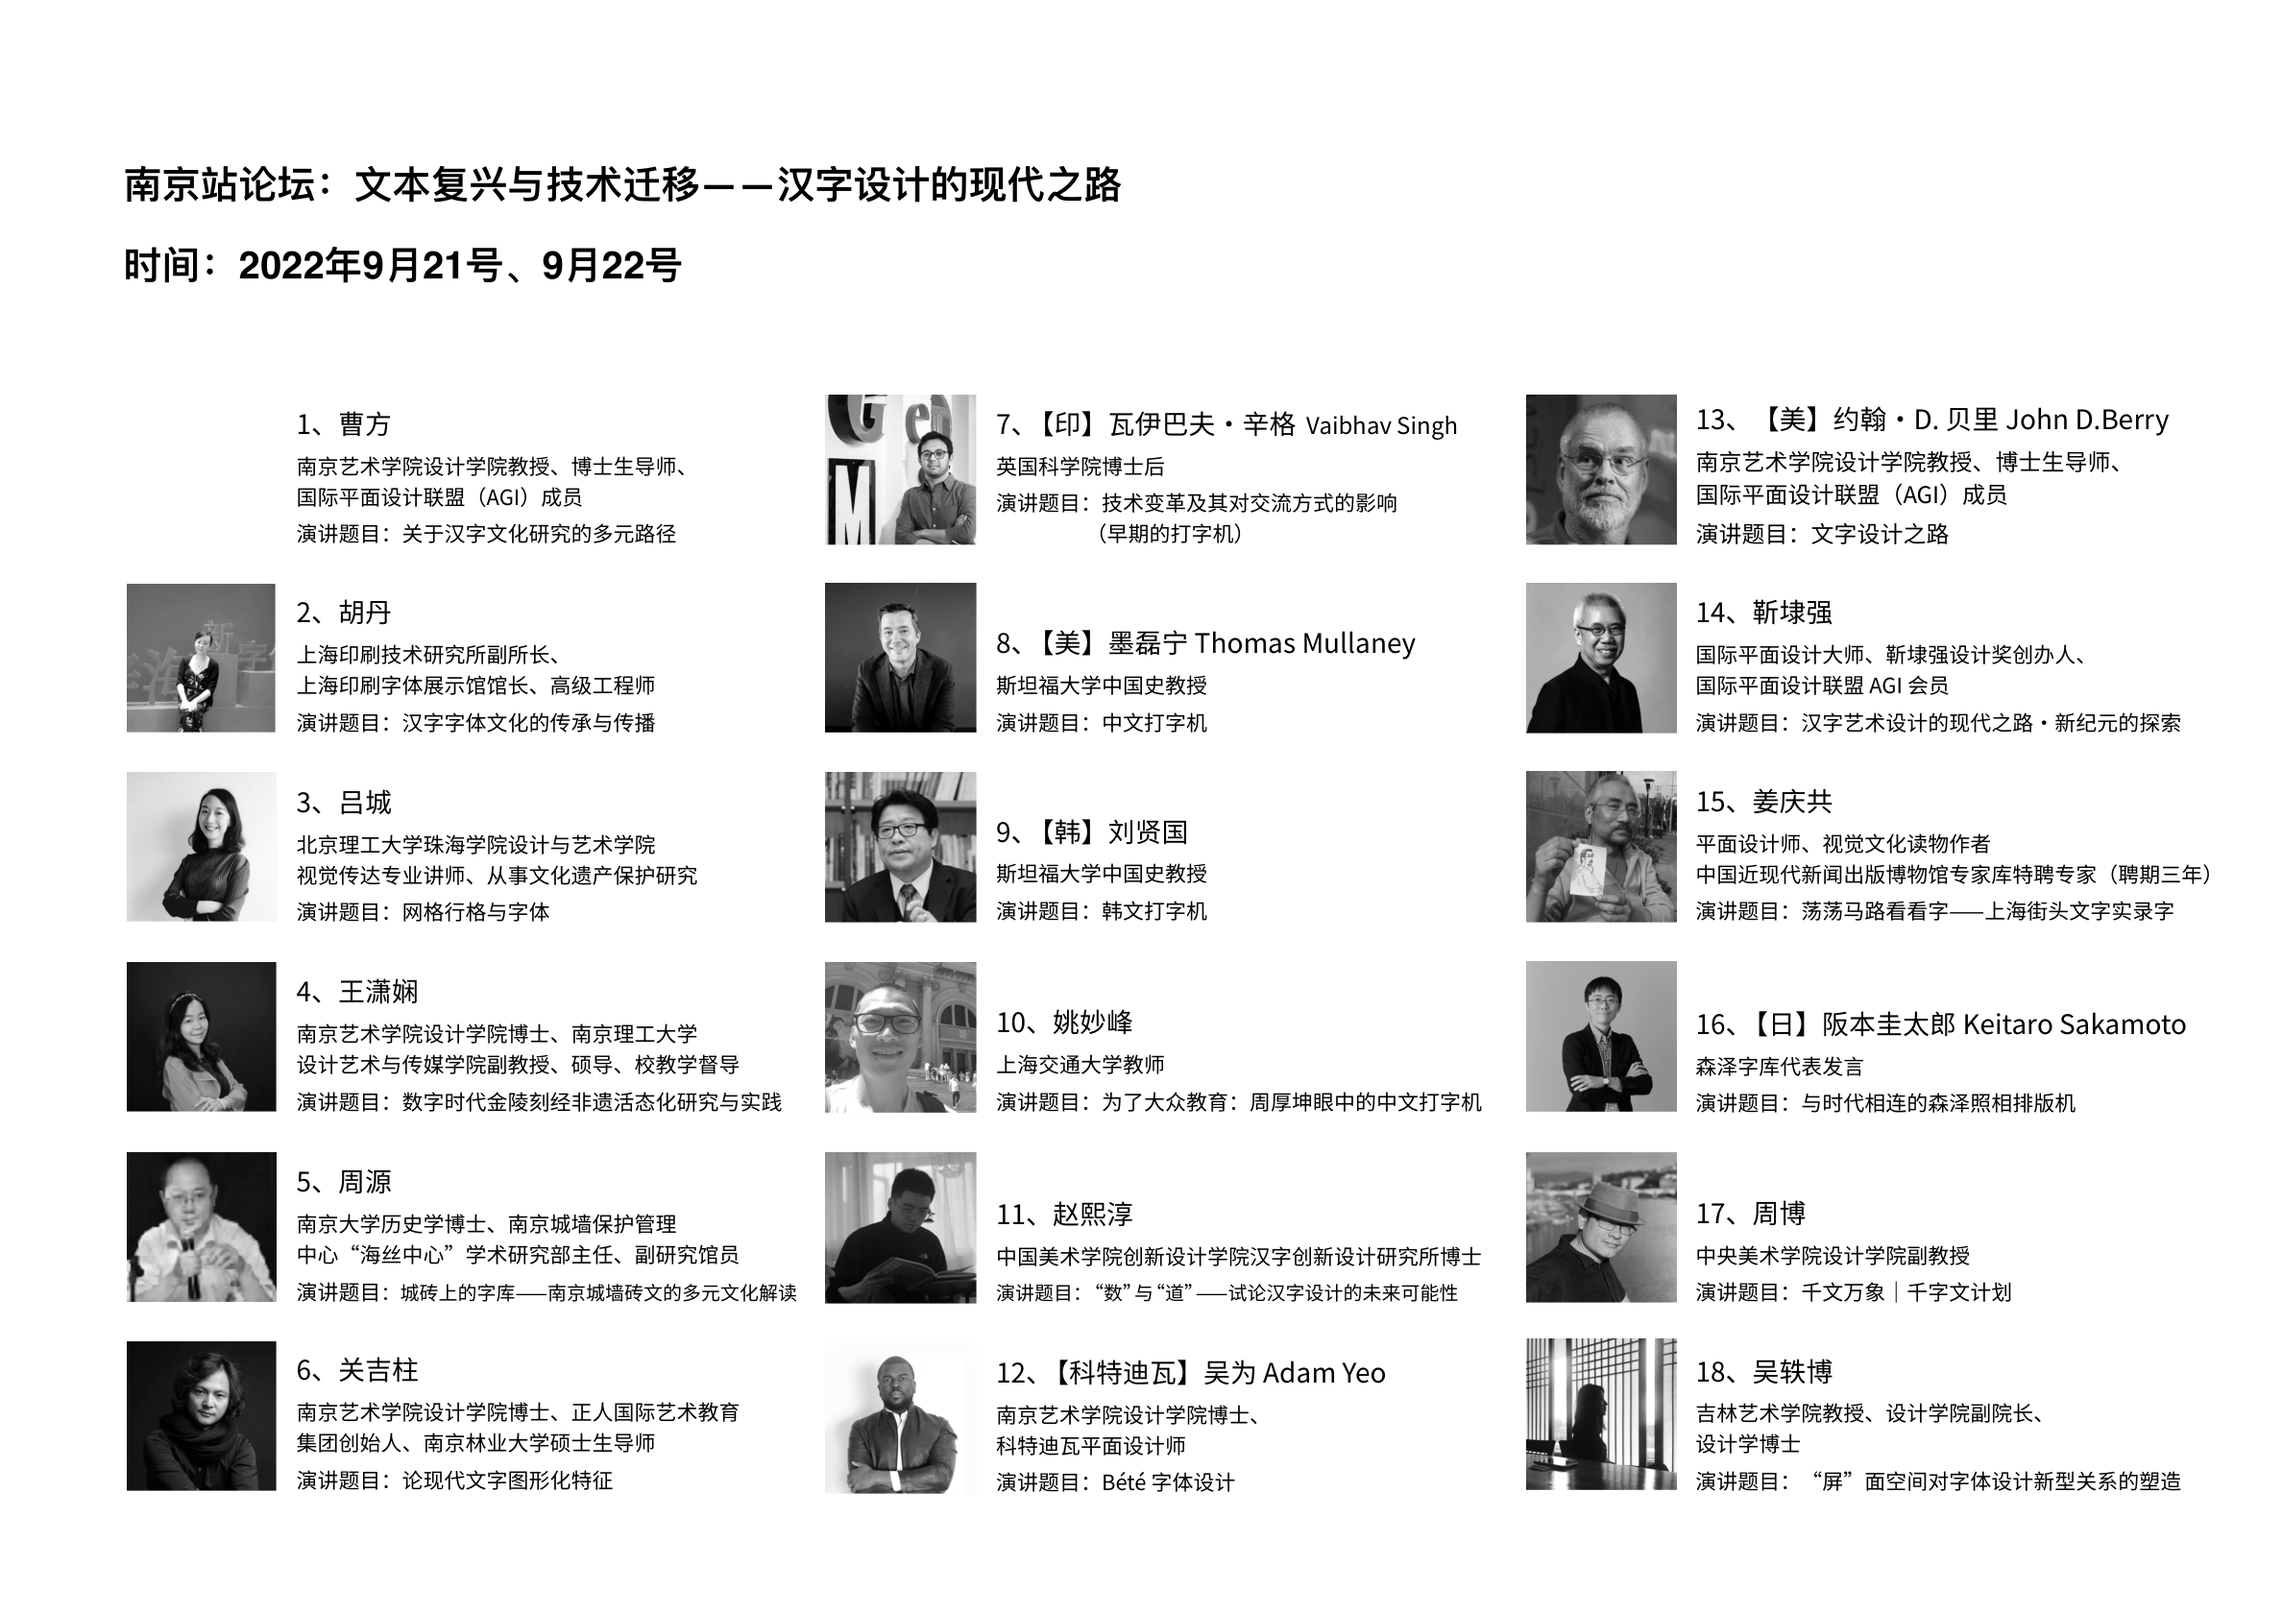
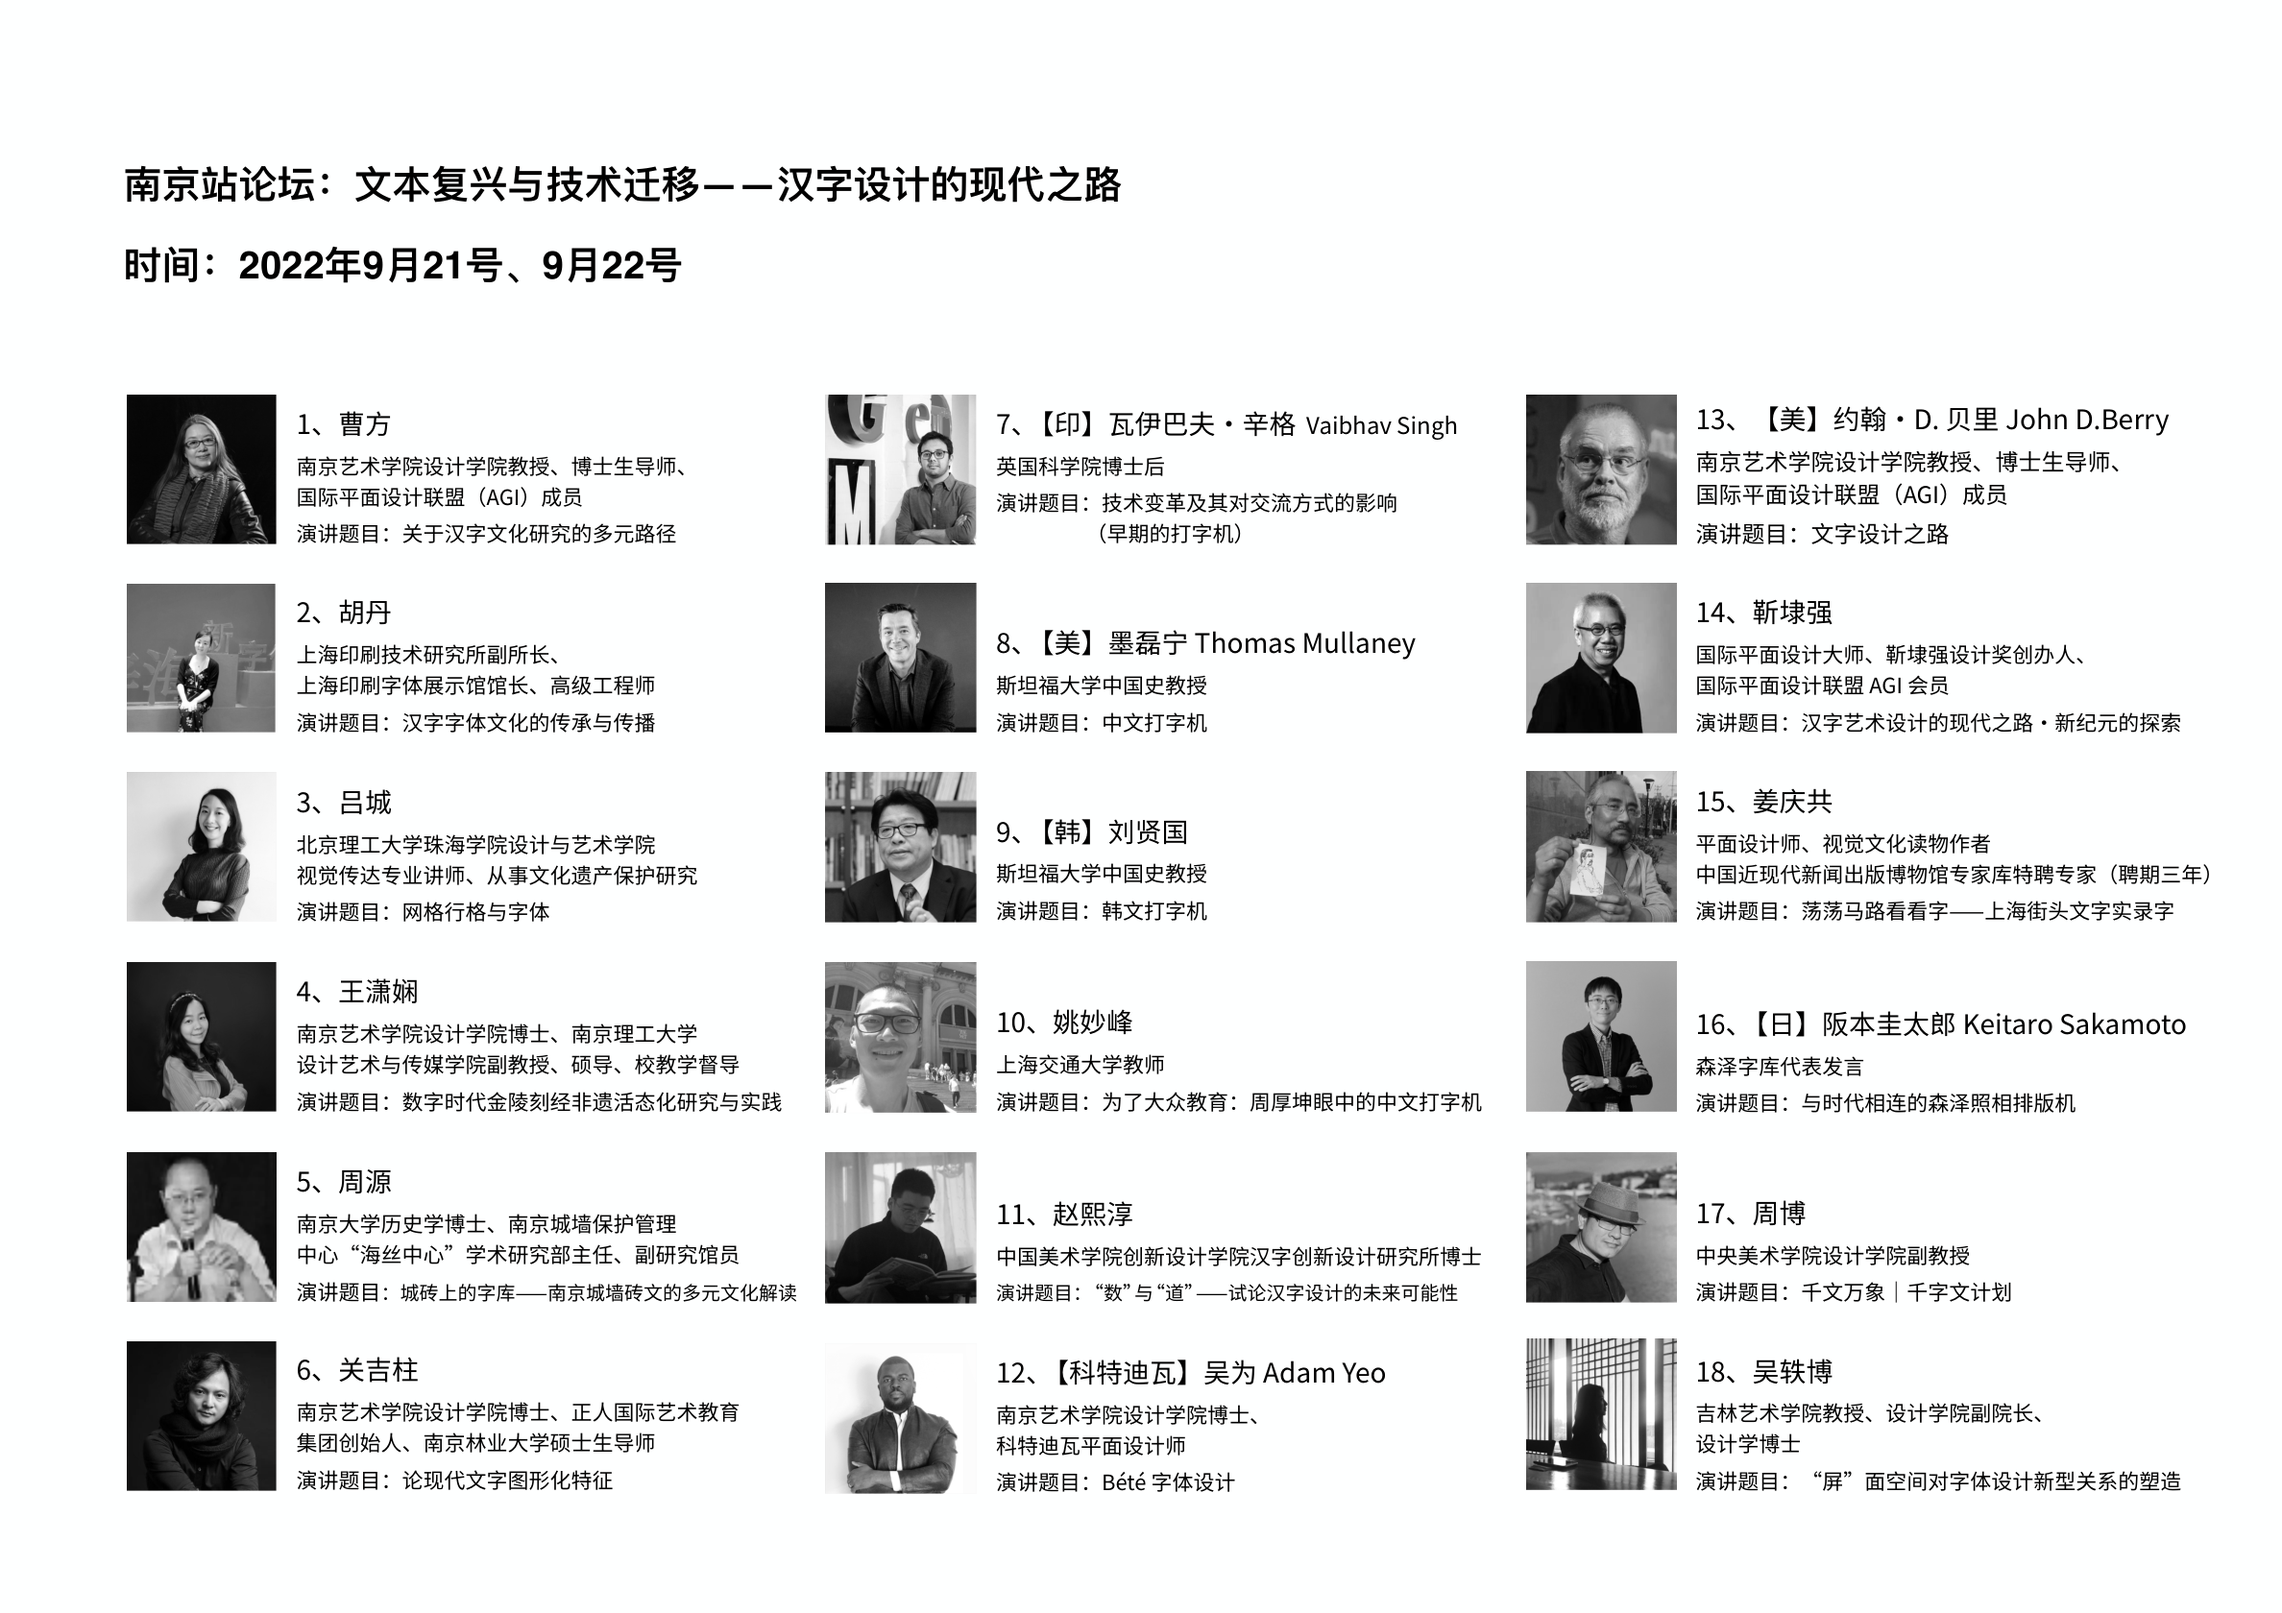
Replace Nanjing forum poster and pin station labels to top-left
Swaps in the updated Nanjing guest-lineup poster. Wraps each forum
card's eyebrow/heading in a .station-preview-label so it no longer
shares grid row tracks with the tall poster image — previously the
label's rows stretched to help fill the image's height, pushing the
station name down; now it's pinned to the top-left regardless of
image height.

Changed region(s): [[0.0311, 0.2476, 0.1246, 0.3405]]

diff --git a/zidao-forum.html b/zidao-forum.html
@@ -5,7 +5,7 @@
   <meta name="viewport" content="width=device-width, initial-scale=1.0">
   <title>Forum | Way of Type: Modernisation of Chinese Typography | CY Type</title>
   <meta name="description" content="Forum guest lineups for the Way of Type: Modernisation of Chinese Typography exhibition, station by station.">
-  <link rel="stylesheet" href="style.css?v=zidao-forum-5">
+  <link rel="stylesheet" href="style.css?v=zidao-forum-6">
 </head>
 <body>
   <header class="topbar">
@@ -26,29 +26,37 @@
 
     <section class="station-preview-list forum-preview-list" aria-label="Forum station lineups">
       <div class="station-preview-card">
-        <span class="eyebrow">China Station 02</span>
-        <h2>Nanjing</h2>
+        <div class="station-preview-label">
+          <span class="eyebrow">China Station 02</span>
+          <h2>Nanjing</h2>
+        </div>
         <div class="station-preview-images">
           <img src="assets/research/zidao/forum/forum-nanjing.png" alt="Way of Type Nanjing station forum guest lineup" decoding="async" loading="lazy">
         </div>
       </div>
       <div class="station-preview-card">
-        <span class="eyebrow">China Station 04</span>
-        <h2>Ningbo</h2>
+        <div class="station-preview-label">
+          <span class="eyebrow">China Station 04</span>
+          <h2>Ningbo</h2>
+        </div>
         <div class="station-preview-images">
           <img src="assets/research/zidao/forum/forum-ningbo.png" alt="Way of Type Ningbo station forum guest lineup" decoding="async" loading="lazy">
         </div>
       </div>
       <div class="station-preview-card">
-        <span class="eyebrow">China Station 03</span>
-        <h2>Beijing</h2>
+        <div class="station-preview-label">
+          <span class="eyebrow">China Station 03</span>
+          <h2>Beijing</h2>
+        </div>
         <div class="station-preview-images">
           <img src="assets/research/zidao/forum/forum-beijing.png" alt="Way of Type Beijing station forum guest lineup" decoding="async" loading="lazy">
         </div>
       </div>
       <div class="station-preview-card">
-        <span class="eyebrow">China Station 06</span>
-        <h2>Qingdao</h2>
+        <div class="station-preview-label">
+          <span class="eyebrow">China Station 06</span>
+          <h2>Qingdao</h2>
+        </div>
         <div class="station-preview-images">
           <img src="assets/research/zidao/forum/forum-qingdao.png" alt="Way of Type Qingdao station forum guest lineup" decoding="async" loading="lazy">
         </div>

diff --git a/style.css b/style.css
@@ -1761,11 +1761,36 @@ h1 {
 
 .forum-preview-list .station-preview-card {
   height: auto;
-  grid-template-rows: auto auto;
+  grid-template-rows: none;
 }
 
 .forum-preview-list .station-preview-images {
   height: auto;
+  grid-row: 1;
+}
+
+.forum-preview-list .station-preview-label {
+  grid-column: 1;
+  grid-row: 1;
+  align-self: start;
+  margin: 24px clamp(24px, 3vw, 48px) 0 24px;
+  position: relative;
+  z-index: 2;
+}
+
+.forum-preview-list .station-preview-label .eyebrow {
+  margin-bottom: 0;
+}
+
+.forum-preview-list .station-preview-label h2 {
+  max-width: 420px;
+  margin-top: 10px;
+  font-family: Arial, Helvetica, "Noto Sans SC", sans-serif;
+  font-size: clamp(30px, 4vw, 70px);
+  font-weight: 800;
+  letter-spacing: -0.065em;
+  line-height: 0.9;
+  transition: color 0.2s ease;
 }
 
 .forum-preview-list .station-preview-images img {

diff --git a/zidao.html b/zidao.html
@@ -5,7 +5,7 @@
   <meta name="viewport" content="width=device-width, initial-scale=1.0">
   <title>Way of Type: Modernisation of Chinese Typography | CY Type</title>
   <meta name="description" content="Research secretary work for Way of Type: Modernisation of Chinese Typography.">
-  <link rel="stylesheet" href="style.css?v=zidao-forum-5">
+  <link rel="stylesheet" href="style.css?v=zidao-forum-6">
 </head>
 <body>
   <header class="topbar">
